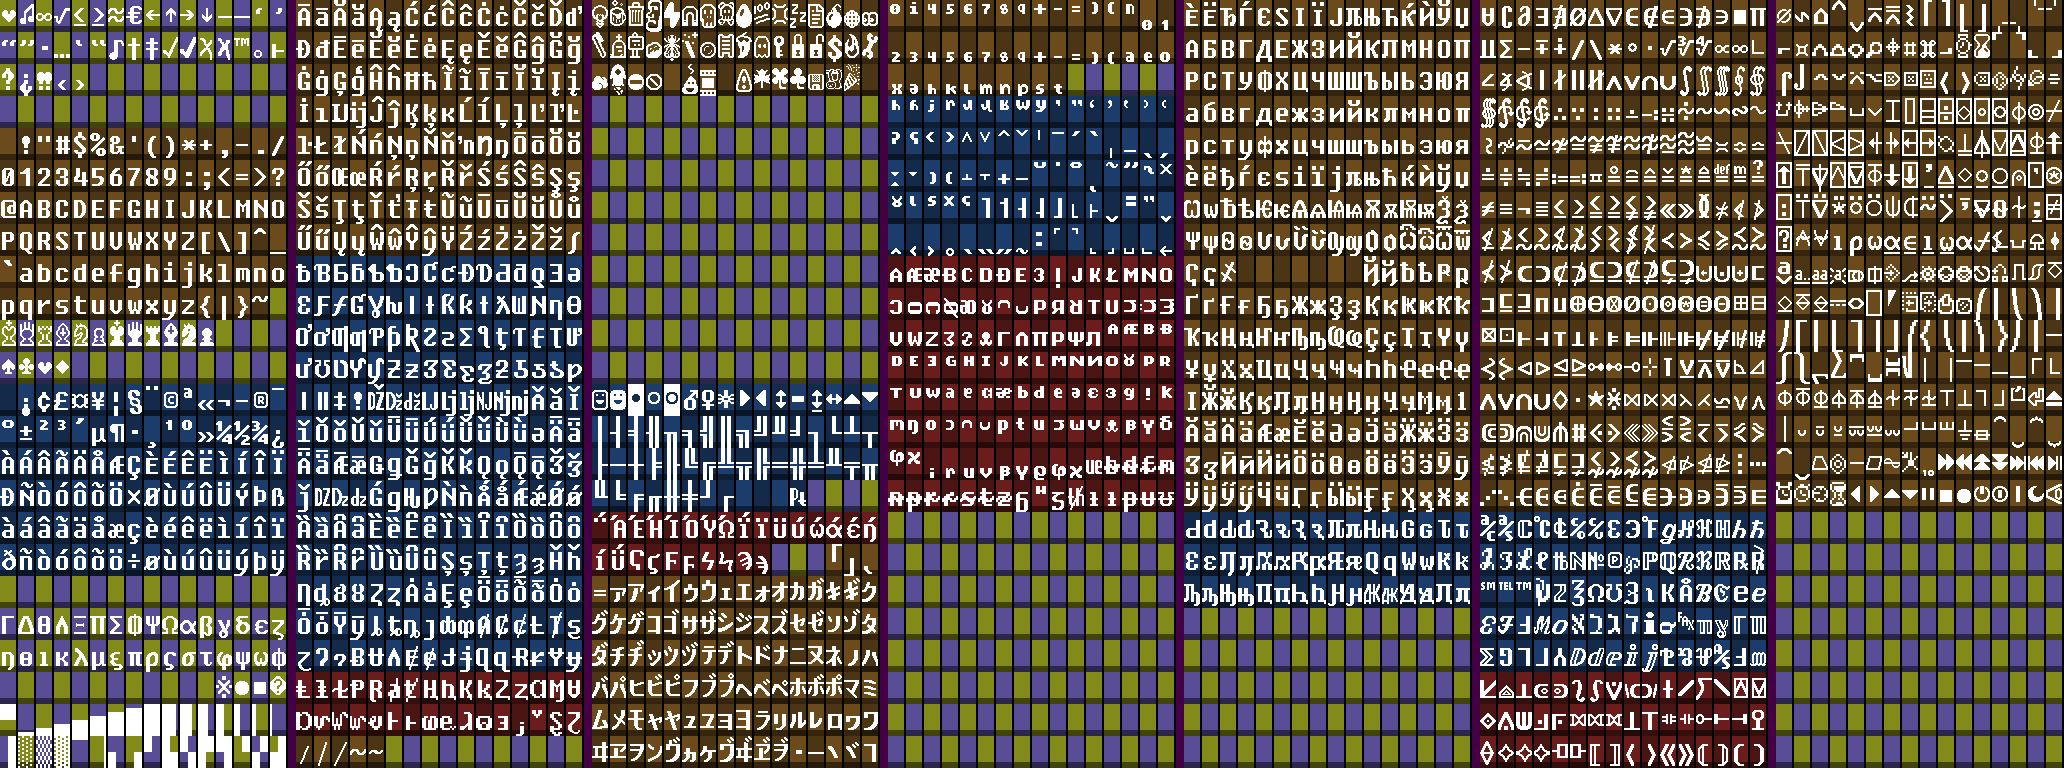
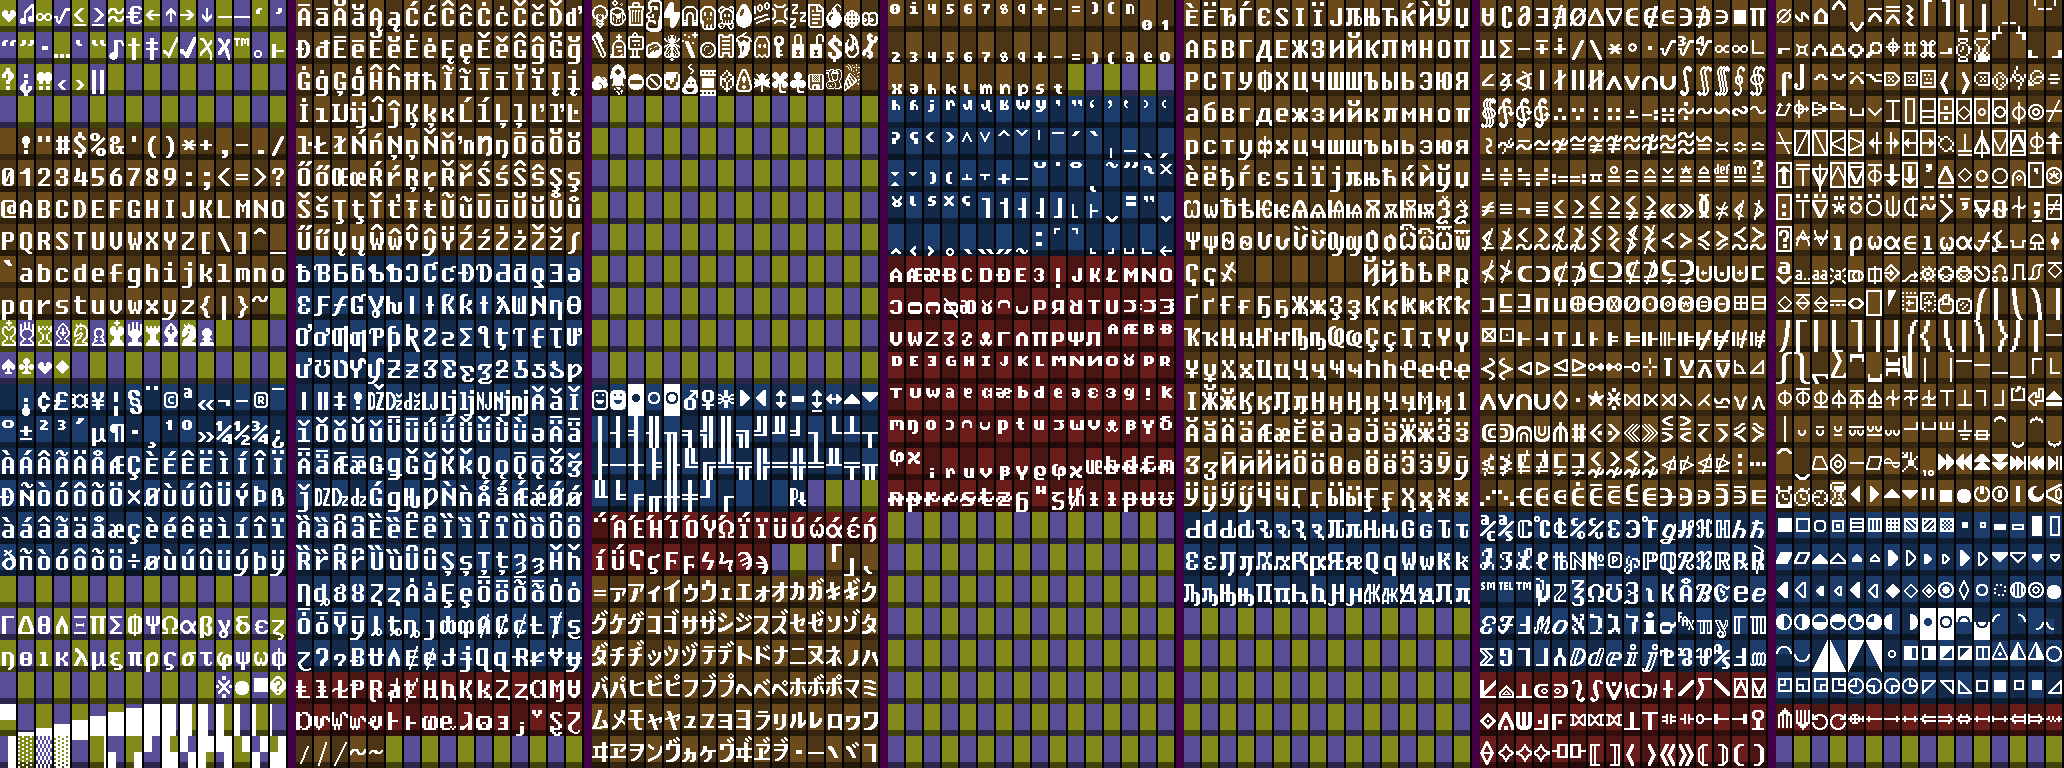
Add more symbols and pages (math stuff)
git-svn-id: file:///home/runner/work/tom7misc-sync-action/tom7misc-sync-action/upstream/trunk@7393 c7e11af0-4c7a-11f1-9edd-117cb6f09d55

diff --git a/bit7/font-image.cc b/bit7/font-image.cc
@@ -62,6 +62,7 @@ Page Config::ParsePage(std::string_view p) {
   if (p == "bit7-cyrillic") return Page::BIT7_CYRILLIC;
   if (p == "bit7-math") return Page::BIT7_MATH;
   if (p == "bit7-sym1") return Page::BIT7_SYM1;
+  if (p == "bit7-mathfonts") return Page::BIT7_MATHFONTS;
   LOG(FATAL) << "Unknown page " << p;
 }
 
@@ -81,6 +82,8 @@ const char *Config::PageString(Page p) {
     return "bit7-math";
   case Page::BIT7_SYM1:
     return "bit7-sym1";
+  case Page::BIT7_MATHFONTS:
+    return "bit7-mathfonts";
   default:
     break;
   }
@@ -168,9 +171,11 @@ static PageInfo PageBit7Classic() {
     // Left and right single guillemets
     0x2039, 0x203A,
 
+    0x2016,  // (‖) Double vertical line
+
     // Unclaimed. Was once emoji, but I moved those to the extended
     // page.
-    -1, -1, -1, -1, -1, -1, -1, -1, -1, -1, -1,
+    -1, -1, -1, -1, -1, -1, -1, -1, -1, -1,
     -1, -1, -1, -1, -1, -1, -1, -1, -1, -1, -1, -1, -1, -1, -1, -1,
 
     // ASCII, in order
@@ -778,8 +783,8 @@ static PageInfo PageBit7Extended() {
     0x26D4,
     // No Entry Sign (diagonal slash)
     0x1F6AB,
-    // Was Hourglass, now free
-    -1,
+    // White heavy check mark emoji
+    0x2705,
     // Pile of poo
     0x1F4A9,
 
@@ -2097,6 +2102,10 @@ static PageInfo PageBit7Sym1() {
   info.sections = {
     // Misc technical
     {0, 16 * 16},
+    // Geometric Shapes
+    {16 * 16, 6 * 16},
+    // Supplemental Arrows A
+    {(16 + 6) * 16, 16},
   };
 
 
@@ -2359,24 +2368,148 @@ static PageInfo PageBit7Sym1() {
     0x23fe,  // (⏾) POWER SLEEP SYMBOL
     0x23ff,  // (⏿) OBSERVER EYE SYMBOL
 
+    // Geometric shapes
+    // Square size: 25A0 > 25FC > 25FE > 25AA
+
+    0x25a0,  // (■) BLACK SQUARE
+    0x25a1,  // (□) WHITE SQUARE
+    0x25a2,  // (▢) WHITE SQUARE WITH ROUNDED CORNERS
+    0x25a3,  // (▣) WHITE SQUARE CONTAINING BLACK SMALL SQUARE
+    0x25a4,  // (▤) SQUARE WITH HORIZONTAL FILL
+    0x25a5,  // (▥) SQUARE WITH VERTICAL FILL
+    0x25a6,  // (▦) SQUARE WITH ORTHOGONAL CROSSHATCH FILL
+    0x25a7,  // (▧) SQUARE WITH UPPER LEFT TO LOWER RIGHT FILL
+    0x25a8,  // (▨) SQUARE WITH UPPER RIGHT TO LOWER LEFT FILL
+    0x25a9,  // (▩) SQUARE WITH DIAGONAL CROSSHATCH FILL
+    0x25aa,  // (▪) BLACK SMALL SQUARE
+    0x25ab,  // (▫) WHITE SMALL SQUARE
+    0x25ac,  // (▬) BLACK RECTANGLE
+    0x25ad,  // (▭) WHITE RECTANGLE
+    0x25ae,  // (▮) BLACK VERTICAL RECTANGLE
+    0x25af,  // (▯) WHITE VERTICAL RECTANGLE
+    0x25b0,  // (▰) BLACK PARALLELOGRAM
+    0x25b1,  // (▱) WHITE PARALLELOGRAM
+    0x25b2,  // (▲) BLACK UP-POINTING TRIANGLE
+    0x25b3,  // (△) WHITE UP-POINTING TRIANGLE
+    0x25b4,  // (▴) BLACK UP-POINTING SMALL TRIANGLE
+    0x25b5,  // (▵) WHITE UP-POINTING SMALL TRIANGLE
+    0x25b6,  // (▶) BLACK RIGHT-POINTING TRIANGLE
+    0x25b7,  // (▷) WHITE RIGHT-POINTING TRIANGLE
+    0x25b8,  // (▸) BLACK RIGHT-POINTING SMALL TRIANGLE
+    0x25b9,  // (▹) WHITE RIGHT-POINTING SMALL TRIANGLE
+    0x25ba,  // (►) BLACK RIGHT-POINTING POINTER
+    0x25bb,  // (▻) WHITE RIGHT-POINTING POINTER
+    0x25bc,  // (▼) BLACK DOWN-POINTING TRIANGLE
+    0x25bd,  // (▽) WHITE DOWN-POINTING TRIANGLE
+    0x25be,  // (▾) BLACK DOWN-POINTING SMALL TRIANGLE
+    0x25bf,  // (▿) WHITE DOWN-POINTING SMALL TRIANGLE
+    0x25c0,  // (◀) BLACK LEFT-POINTING TRIANGLE
+    0x25c1,  // (◁) WHITE LEFT-POINTING TRIANGLE
+    0x25c2,  // (◂) BLACK LEFT-POINTING SMALL TRIANGLE
+    0x25c3,  // (◃) WHITE LEFT-POINTING SMALL TRIANGLE
+    0x25c4,  // (◄) BLACK LEFT-POINTING POINTER
+    0x25c5,  // (◅) WHITE LEFT-POINTING POINTER
+    0x25c6,  // (◆) BLACK DIAMOND
+    0x25c7,  // (◇) WHITE DIAMOND
+    0x25c8,  // (◈) WHITE DIAMOND CONTAINING BLACK SMALL DIAMOND
+    0x25c9,  // (◉) FISHEYE
+    0x25ca,  // (◊) LOZENGE
+    0x25cb,  // (○) WHITE CIRCLE
+    0x25cc,  // (◌) DOTTED CIRCLE
+    0x25cd,  // (◍) CIRCLE WITH VERTICAL FILL
+    0x25ce,  // (◎) BULLSEYE
+    0x25cf,  // (●) BLACK CIRCLE
+    0x25d0,  // (◐) CIRCLE WITH LEFT HALF BLACK
+    0x25d1,  // (◑) CIRCLE WITH RIGHT HALF BLACK
+    0x25d2,  // (◒) CIRCLE WITH LOWER HALF BLACK
+    0x25d3,  // (◓) CIRCLE WITH UPPER HALF BLACK
+    0x25d4,  // (◔) CIRCLE WITH UPPER RIGHT QUADRANT BLACK
+    0x25d5,  // (◕) CIRCLE WITH ALL BUT UPPER LEFT QUADRANT BLACK
+    0x25d6,  // (◖) LEFT HALF BLACK CIRCLE
+    0x25d7,  // (◗) RIGHT HALF BLACK CIRCLE
+    0x25d8,  // (◘) INVERSE BULLET
+    0x25d9,  // (◙) INVERSE WHITE CIRCLE
+    0x25da,  // (◚) UPPER HALF INVERSE WHITE CIRCLE
+    0x25db,  // (◛) LOWER HALF INVERSE WHITE CIRCLE
+    0x25dc,  // (◜) UPPER LEFT QUADRANT CIRCULAR ARC
+    0x25dd,  // (◝) UPPER RIGHT QUADRANT CIRCULAR ARC
+    0x25de,  // (◞) LOWER RIGHT QUADRANT CIRCULAR ARC
+    0x25df,  // (◟) LOWER LEFT QUADRANT CIRCULAR ARC
+    0x25e0,  // (◠) UPPER HALF CIRCLE
+    0x25e1,  // (◡) LOWER HALF CIRCLE
+    0x25e2,  // (◢) BLACK LOWER RIGHT TRIANGLE
+    0x25e3,  // (◣) BLACK LOWER LEFT TRIANGLE
+    0x25e4,  // (◤) BLACK UPPER LEFT TRIANGLE
+    0x25e5,  // (◥) BLACK UPPER RIGHT TRIANGLE
+    0x25e6,  // (◦) WHITE BULLET
+    0x25e7,  // (◧) SQUARE WITH LEFT HALF BLACK
+    0x25e8,  // (◨) SQUARE WITH RIGHT HALF BLACK
+    0x25e9,  // (◩) SQUARE WITH UPPER LEFT DIAGONAL HALF BLACK
+    0x25ea,  // (◪) SQUARE WITH LOWER RIGHT DIAGONAL HALF BLACK
+    0x25eb,  // (◫) WHITE SQUARE WITH VERTICAL BISECTING LINE
+    0x25ec,  // (◬) WHITE UP-POINTING TRIANGLE WITH DOT
+    0x25ed,  // (◭) UP-POINTING TRIANGLE WITH LEFT HALF BLACK
+    0x25ee,  // (◮) UP-POINTING TRIANGLE WITH RIGHT HALF BLACK
+    0x25ef,  // (◯) LARGE CIRCLE
+    0x25f0,  // (◰) WHITE SQUARE WITH UPPER LEFT QUADRANT
+    0x25f1,  // (◱) WHITE SQUARE WITH LOWER LEFT QUADRANT
+    0x25f2,  // (◲) WHITE SQUARE WITH LOWER RIGHT QUADRANT
+    0x25f3,  // (◳) WHITE SQUARE WITH UPPER RIGHT QUADRANT
+    0x25f4,  // (◴) WHITE CIRCLE WITH UPPER LEFT QUADRANT
+    0x25f5,  // (◵) WHITE CIRCLE WITH LOWER LEFT QUADRANT
+    0x25f6,  // (◶) WHITE CIRCLE WITH LOWER RIGHT QUADRANT
+    0x25f7,  // (◷) WHITE CIRCLE WITH UPPER RIGHT QUADRANT
+    0x25f8,  // (◸) UPPER LEFT TRIANGLE
+    0x25f9,  // (◹) UPPER RIGHT TRIANGLE
+    0x25fa,  // (◺) LOWER LEFT TRIANGLE
+    0x25fb,  // (◻) WHITE MEDIUM SQUARE
+    0x25fc,  // (◼) BLACK MEDIUM SQUARE
+    0x25fd,  // (◽) WHITE MEDIUM SMALL SQUARE
+    0x25fe,  // (◾) BLACK MEDIUM SMALL SQUARE
+    0x25ff,  // (◿) LOWER RIGHT TRIANGLE
+
+    // Supplemental Arrows-A
+    0x27F0,  // (⟰) UPWARDS QUADRUPLE ARROW
+    0x27F1,  // (⟱) DOWNWARDS QUADRUPLE ARROW
+    0x27F2,  // (⟲) ANTICLOCKWISE GAPPED CIRCLE ARROW
+    0x27F3,  // (⟳) CLOCKWISE GAPPED CIRCLE ARROW
+    0x27F4,  // (⟴) RIGHT ARROW WITH CIRCLED PLUS
+    0x27F5,  // (⟵) LONG LEFTWARDS ARROW
+    0x27F6,  // (⟶) LONG RIGHTWARDS ARROW
+    0x27F7,  // (⟷) LONG LEFT RIGHT ARROW
+    0x27F8,  // (⟸) LONG LEFTWARDS DOUBLE ARROW
+    0x27F9,  // (⟹) LONG RIGHTWARDS DOUBLE ARROW
+    0x27FA,  // (⟺) LONG LEFT RIGHT DOUBLE ARROW
+    0x27FB,  // (⟻) LONG LEFTWARDS ARROW FROM BAR
+    0x27FC,  // (⟼) LONG RIGHTWARDS ARROW FROM BAR
+    0x27FD,  // (⟽) LONG LEFTWARDS DOUBLE ARROW FROM BAR
+    0x27FE,  // (⟾) LONG RIGHTWARDS DOUBLE ARROW FROM BAR
+    0x27FF,  // (⟿) LONG RIGHTWARDS SQUIGGLE ARROW
+
     // Free to a good home
-
-    // Geometric shapes? U+25A0 would fit
-
-    -1, -1, -1, -1, -1, -1, -1, -1, -1, -1, -1, -1, -1, -1, -1, -1,
-    -1, -1, -1, -1, -1, -1, -1, -1, -1, -1, -1, -1, -1, -1, -1, -1,
-    -1, -1, -1, -1, -1, -1, -1, -1, -1, -1, -1, -1, -1, -1, -1, -1,
-    -1, -1, -1, -1, -1, -1, -1, -1, -1, -1, -1, -1, -1, -1, -1, -1,
-
-    -1, -1, -1, -1, -1, -1, -1, -1, -1, -1, -1, -1, -1, -1, -1, -1,
-    -1, -1, -1, -1, -1, -1, -1, -1, -1, -1, -1, -1, -1, -1, -1, -1,
-    -1, -1, -1, -1, -1, -1, -1, -1, -1, -1, -1, -1, -1, -1, -1, -1,
     -1, -1, -1, -1, -1, -1, -1, -1, -1, -1, -1, -1, -1, -1, -1, -1,
   };
 
   CHECK(info.codepoints.size() == 16 * 24) << info.codepoints.size();
   return info;
 };
+
+static PageInfo PageBit7MathFonts() {
+  PageInfo info;
+  info.sections = {
+    {0, 52}, // bold A-Z, a-z
+  };
+
+  info.sections.emplace_back(info.codepoints.size(), 52);
+  for (int i = 0; i < 52; i++) {
+    info.codepoints.push_back(0x1D400 + i);
+  }
+
+  while (info.codepoints.size() < 16 * 24) info.codepoints.push_back(-1);
+
+  CHECK(info.codepoints.size() == 16 * 24) << info.codepoints.size();
+  return info;
+}
 
 static PageInfo GetPageInfo(Page p) {
   switch (p) {
@@ -2387,6 +2520,7 @@ static PageInfo GetPageInfo(Page p) {
   case Page::BIT7_CYRILLIC: return PageBit7Cyrillic();
   case Page::BIT7_MATH: return PageBit7Math();
   case Page::BIT7_SYM1: return PageBit7Sym1();
+  case Page::BIT7_MATHFONTS: return PageBit7MathFonts();
   }
   LOG(FATAL) << "Unimplemented page!";
 }
@@ -2587,6 +2721,20 @@ REUSE_FOR = {
   {' ', 0x202F},  // Narrow No-Break Space
   {' ', 0x205F},  // Medium Mathematical Space
   {' ', 0x3000},  // Ideographic space
+};
+
+static constexpr std::initializer_list<std::pair<int, int>>
+MONOSPACE_REUSE_FOR = {
+  {'0', 0x1D7F6}, // (𝟶) MATHEMATICAL MONOSPACE DIGIT ZERO
+  {'1', 0x1D7F7}, // (𝟷) MATHEMATICAL MONOSPACE DIGIT ONE
+  {'2', 0x1D7F8}, // (𝟸) MATHEMATICAL MONOSPACE DIGIT TWO
+  {'3', 0x1D7F9}, // (𝟹) MATHEMATICAL MONOSPACE DIGIT THREE
+  {'4', 0x1D7FA}, // (𝟺) MATHEMATICAL MONOSPACE DIGIT FOUR
+  {'5', 0x1D7FB}, // (𝟻) MATHEMATICAL MONOSPACE DIGIT FIVE
+  {'6', 0x1D7FC}, // (𝟼) MATHEMATICAL MONOSPACE DIGIT SIX
+  {'7', 0x1D7FD}, // (𝟽) MATHEMATICAL MONOSPACE DIGIT SEVEN
+  {'8', 0x1D7FE}, // (𝟾) MATHEMATICAL MONOSPACE DIGIT EIGHT
+  {'9', 0x1D7FF}, // (𝟿) MATHEMATICAL MONOSPACE DIGIT NINE
 };
 
 // Unicode has width variants for characters that normally
@@ -3127,6 +3275,13 @@ FontImage::FontImage(const Config &config) : config(config) {
   for (const auto &[src, dst] : REUSE_FOR) {
     Reuse(src, dst);
   }
+
+  if (config.fixed_width) {
+    for (const auto &[src, dst] : MONOSPACE_REUSE_FOR) {
+      Reuse(src, dst);
+    }
+  }
+
 
   WidthVariants(Reuse);
 }

diff --git a/bit7/font-image.h b/bit7/font-image.h
@@ -20,6 +20,7 @@ enum class Page {
   BIT7_CYRILLIC,
   BIT7_MATH,
   BIT7_SYM1,
+  BIT7_MATHFONTS,
 };
 
 struct Config {
